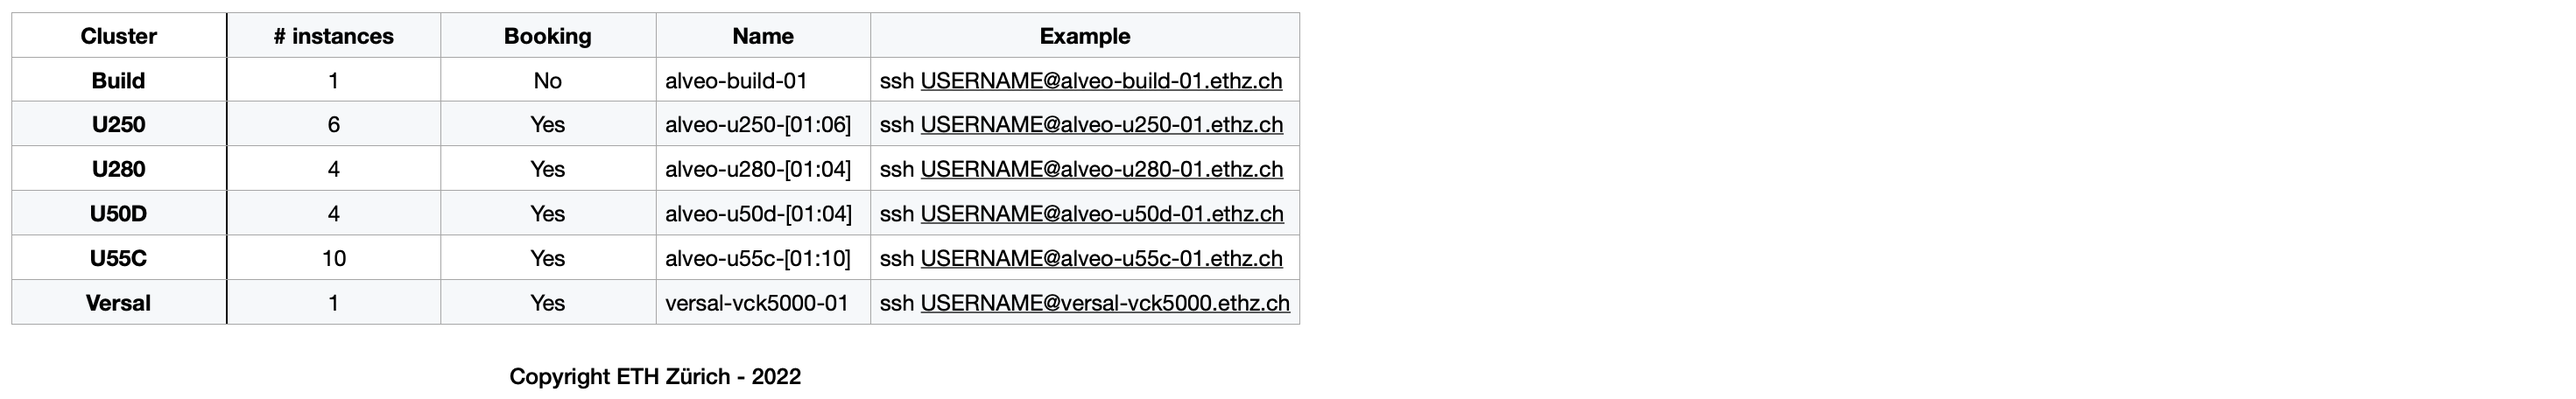
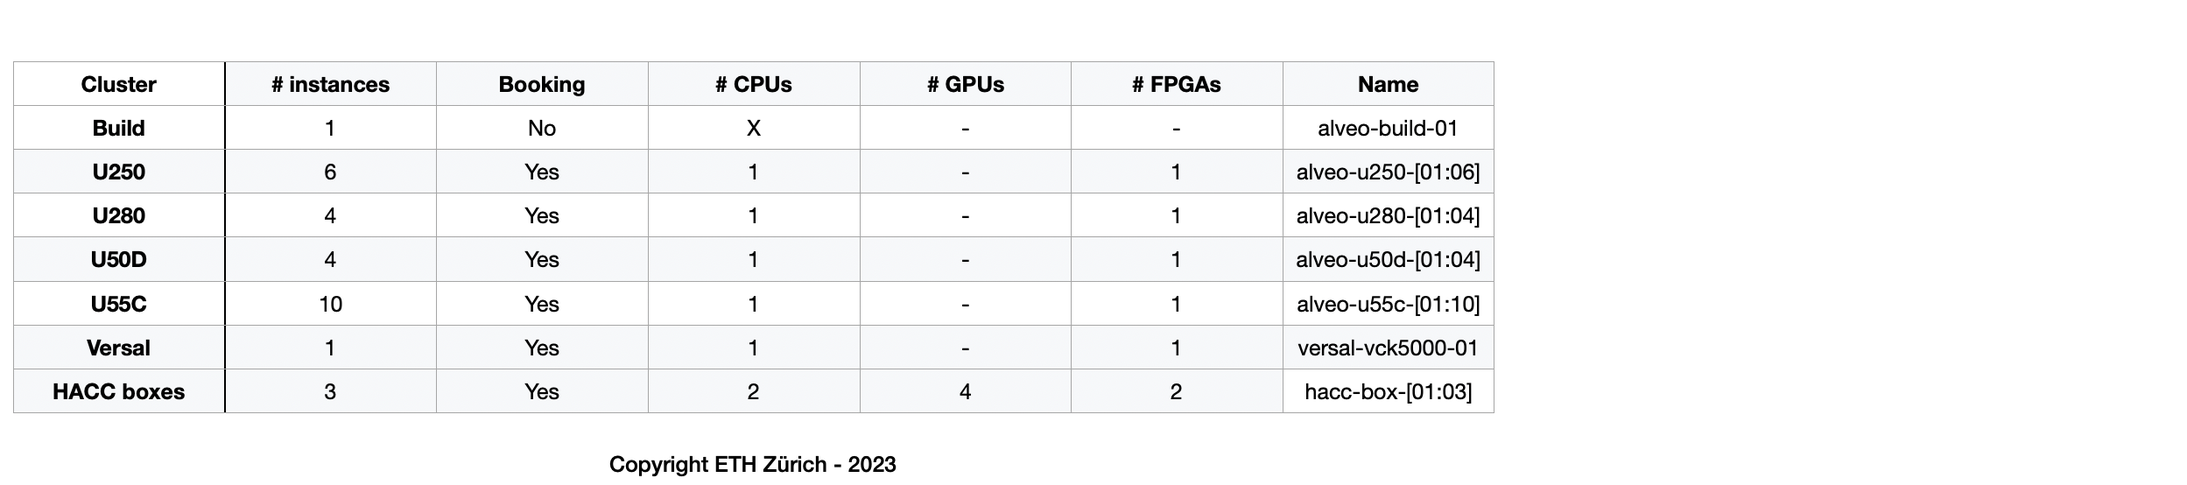
Update

diff --git a/docs/infrastructure.md b/docs/infrastructure.md
@@ -5,12 +5,12 @@
 </p>
 
 # Infrastructure
-ETHZ-HACC comprises high-end servers, Xilinx accelerator cards, and high-speed networking. Each accelerator card has all of its Ethernet interfaces connected to a 100 GbE leaf switch to allow exploration of arbitrary network topologies for distributed computing. Additionally, we are offering a build server with development and bitstream compilation purposes. <!-- Our HACC is provisioned and managed based on [Infrastructure as Code](../docs/vocabulary.md#infrastructure-as-code) using [Ansible](../docs/vocabulary.md#ansible). -->
+ETHZ-HACC comprises high-end servers, GPUs, reconfigurable accelerator cards, and high-speed networking. Each accelerator card has all of its Ethernet interfaces connected to a 100 GbE leaf switch to allow exploration of arbitrary network topologies for distributed computing. Additionally, we are offering a build server with development and bitstream compilation purposes. <!-- Our HACC is provisioned and managed based on [Infrastructure as Code](../docs/vocabulary.md#infrastructure-as-code) using [Ansible](../docs/vocabulary.md#ansible). -->
 
-![ETHZ-HACC is comprised of high-end servers, Xilinx accelerator cards, and high-speed networking.](../imgs/infrastructure.png "ETHZ-HACC is comprised of high-end servers, Xilinx accelerator cards, and high-speed networking.")
-*ETHZ-HACC is comprised of high-end servers, Xilinx accelerator cards, and high-speed networking.*
+![ETHZ-HACC is comprised of high-end servers, reconfigurable accelerator cards, and high-speed networking.](../imgs/infrastructure.png "ETHZ-HACC is comprised of high-end servers, reconfigurable accelerator cards, and high-speed networking.")
+*ETHZ-HACC is comprised of high-end servers, reconfigurable accelerator cards, and high-speed networking.*
 
-We are offering twenty-four Alveo data center accelerator cards and one Versal card. Remember that each high-end server exposes **only one Xilinx accelerator card to the user.** The following tables give an overview of ETHZ-HACC **server names** and their **resources:**
+We are offering twenty-four Alveo data center accelerator cards and one Versal card. Remember that each high-end server exposes **only one reconfigurable accelerator card to the user.** The following tables give an overview of ETHZ-HACC **server names** and their **resources:**
 
 <!-- | Cluster | # instances | Booking | Names              | Examples                            |
 |---------|-------------|---------|--------------------|-------------------------------------|
@@ -147,11 +147,10 @@ We are offering twenty-four Alveo data center accelerator cards and one Versal c
 ## *Build cluster*
 We are offering a *build cluster* for development and bitstream compilation purposes. Multiple users can access this machine simultaneously without booking it first. Please only use the HACC build servers if you do not have access to similar resources at your research institution: too many users running large jobs on this machine will likely cause builds to run slowly—or sometimes to fail. Also, avoid using the build servers for debugging or simulating your hardware.
 
-## High-end servers and Xilinx accelerator cards
+## High-end servers and reconfigurable accelerator cards
 ### AMD EPYC
 EPYC is the world’s highest-performing x86 server processor with faster performance for cloud, enterprise, and HPC workloads. To learn more about it, please refer to the [AMD EPYC processors website](https://www.amd.com/en/processors/epyc-server-cpu-family) and its [data sheet.](https://www.amd.com/system/files/documents/amd-epyc-7003-series-datasheet.pdf)
 
-<!-- ## Xilinx accelerator cards -->
 ### Virtex Ultrascale+
 Virtex UltraScale+ devices provide the highest performance and integration capabilities in a 14nm/16nm FinFET node. It also provides registered inter-die routing lines enabling >600 MHz operation, with abundant and flexible clocking to deliver a virtual monolithic design experience. As the industry’s most capable FPGA family, the devices are ideal for compute-intensive applications ranging from 1+Tb/s networking and machine learning to radar/early-warning systems.
 
